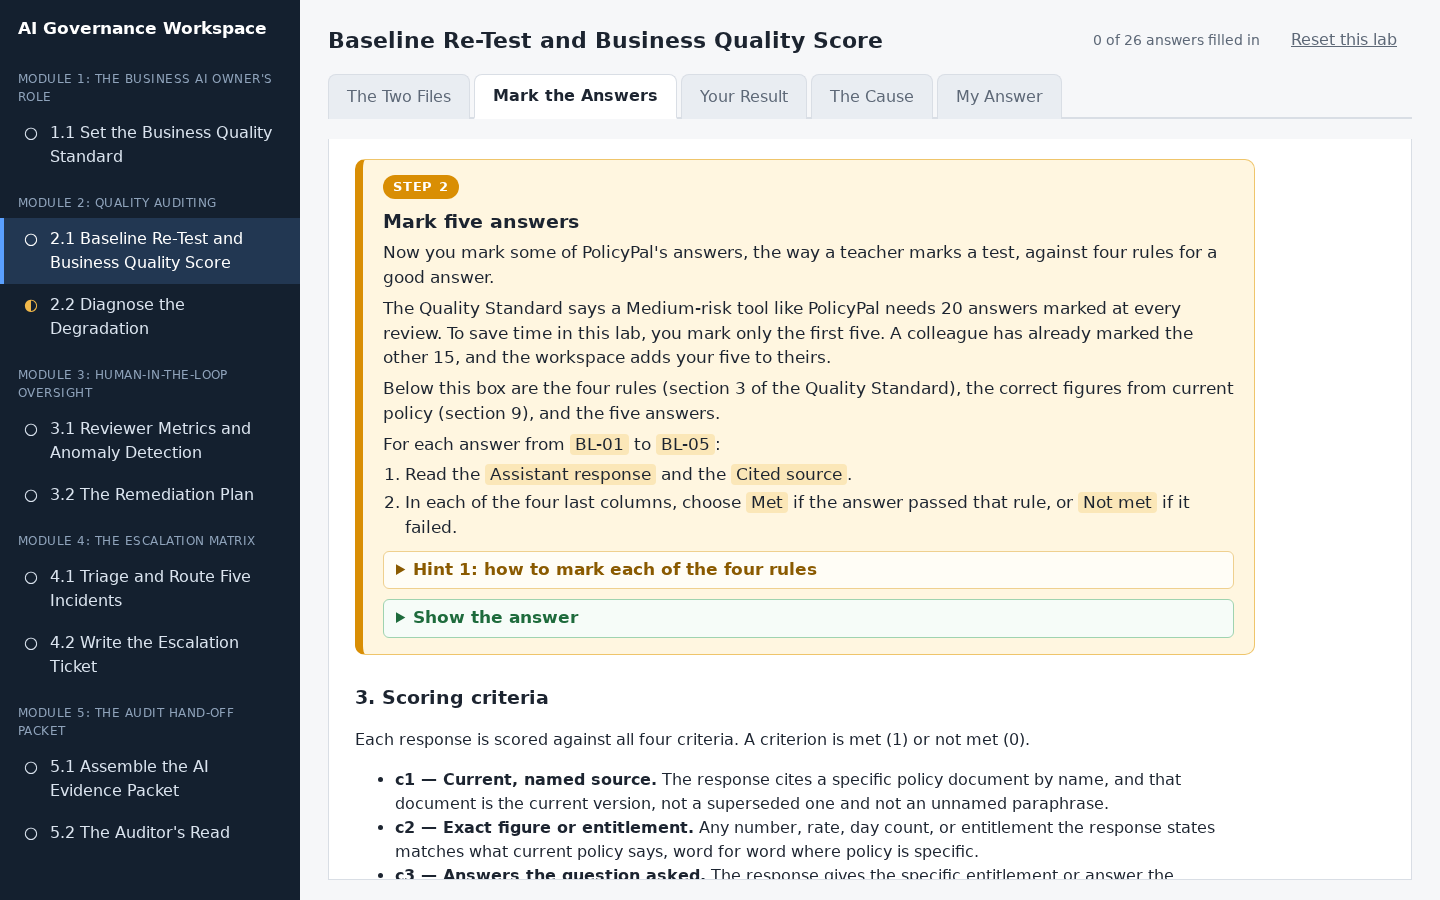
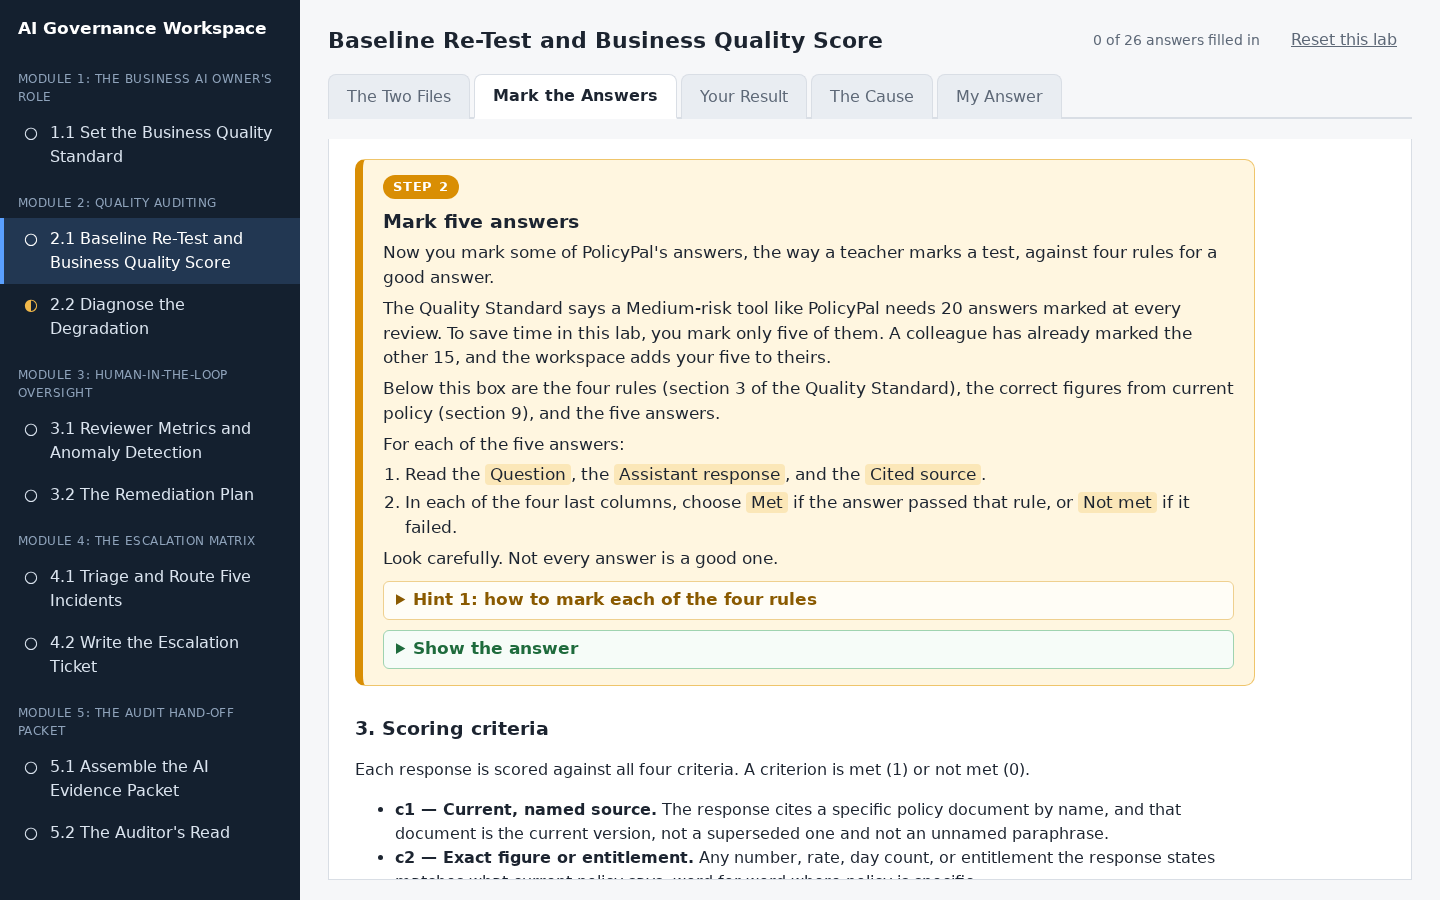
Lab 2.1: mark five answers with real problems; compact number tables
- Students now mark BL-01, BL-11, BL-13, BL-17 and BL-19: one good answer,
  one that recommends an outcome on a disputed decision instead of
  referring to HR (c4), one wrong figure (c2), and two vague answers from
  after the model change (c3, and c1 for a superseded policy). The other
  15 are pre-marked; the score is unchanged at 81 against a baseline of 88
- BL-11's answer now makes an explicit recommendation
- New `fit: true` table option sizes columns to their contents; used for
  the dated marks table and the compare-marks table

Changed region(s): [[0.25, 0.5911, 0.875, 0.9956], [0.3125, 0.4667, 0.6875, 0.56], [0.5312, 0.3422, 0.8125, 0.3733]]

diff --git a/static/style.css b/static/style.css
@@ -98,6 +98,10 @@ table.data tr.total td { font-weight: 700; background: #eef1f5; }
 .stat-hint { font-size: 12px; color: var(--warn); }
 .scorecard.sticky { position: sticky; top: 0; z-index: 5; }
 .crit-details summary { cursor: pointer; color: var(--accent); font-size: 14px; margin: 2px 0 6px; }
+/* `fit: true`: columns only as wide as their contents, so short numbers sit side by side */
+.tablewrap.fit { display: inline-block; max-width: 100%; vertical-align: top; }
+table.data.fit { width: auto; }
+table.data.fit td.num { padding-left: 24px; }
 .tablewrap.with-card { max-height: max(300px, calc(100vh - 430px)); }
 table.crit { width: auto; background: #fff; border: 1px solid var(--line); }
 table.crit th, table.crit td { padding: 5px 14px; }

diff --git a/static/app.js b/static/app.js
@@ -403,7 +403,8 @@ function renderTable(tab) {
       tbody.replaceChildren(...rs.map(({ r, i }) => h("tr", {}, cols.map(c => cell(r, i, c)))));
     }
     drawBody();
-    return h("div", { class: "tablewrap" + (card ? " with-card" : "") }, table);
+    if (tab.fit) table.classList.add("fit");
+    return h("div", { class: "tablewrap" + (card ? " with-card" : "") + (tab.fit ? " fit" : "") }, table);
   }
 
   function cell(r, i, c) {

diff --git a/server.py b/server.py
@@ -170,7 +170,8 @@ def build_material(lab_dir, item, tab_id, n):
     return {"kind": "table", "id": spec.get("id", f"{tab_id}-{n}"), **table,
             "show_rows": show, "readonly": bool(spec.get("readonly")),
             "tools": spec.get("tools", True), "view": spec.get("view", "rows"),
-            "group": spec.get("group", ""), "split": spec.get("split", ""), "sort": spec.get("sort", "")}
+            "group": spec.get("group", ""), "split": spec.get("split", ""), "sort": spec.get("sort", ""),
+            "fit": bool(spec.get("fit"))}
 
 
 def build_steps(lab_dir, tab, first_number):

diff --git a/validate.py b/validate.py
@@ -31,7 +31,7 @@ STEP_KEYS = {"title", "text", "fields", "hints", "answer", "show"}
 HINT_KEYS = {"title", "text"}
 MATERIAL_KINDS = {"doc", "markdown", "table", "answers"}
 TABLE_KEYS = {"id", "source", "note", "computed", "hide", "labels", "editable", "summary", "scorecard",
-              "where", "readonly", "tools", "view", "group", "split", "sort"}
+              "where", "readonly", "tools", "view", "group", "split", "sort", "fit"}
 TABLE_VIEWS = {"rows", "scorecard"}
 REPORT_SECTION_KEYS = {"title", "help", "fields"}
 

diff --git a/README.md b/README.md
@@ -125,6 +125,7 @@ More things a step can show under it:
 | `answers: [field-id, ...]` | the student's earlier answers, read-only, updating live, so no step needs a trip back to an earlier tab |
 | `table:` with `group:`, `split:`, `sort:` | the table opened already grouped, split or sorted; the menus still work |
 | `table:` with `view: scorecard` | only the live Business Quality Score panel for that table |
+| `table:` with `fit: true` | columns only as wide as their contents (good for short numbers) |
 
 One editable table can be split across steps (for example the first five rows, then the rest): give each
 part the same `id` and `source` and a different `where:`. Their answers are one set.
